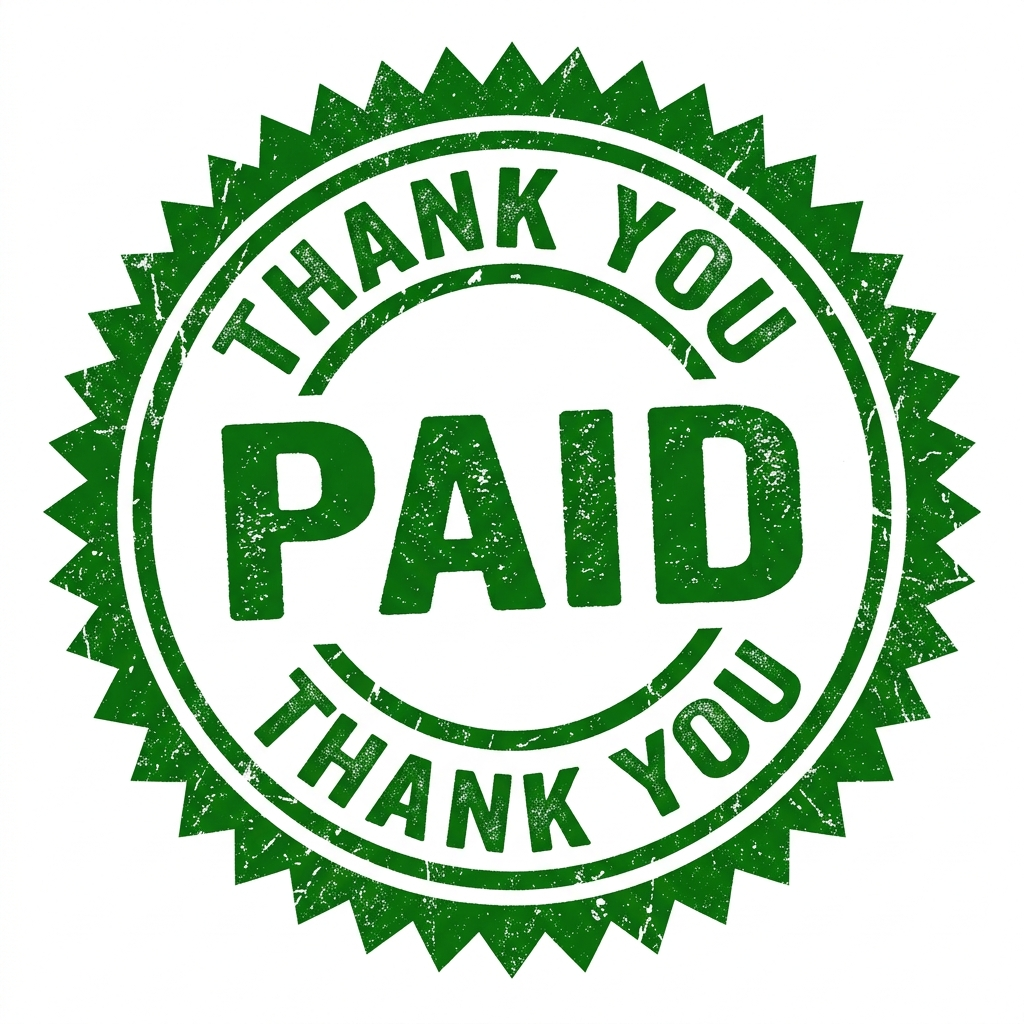
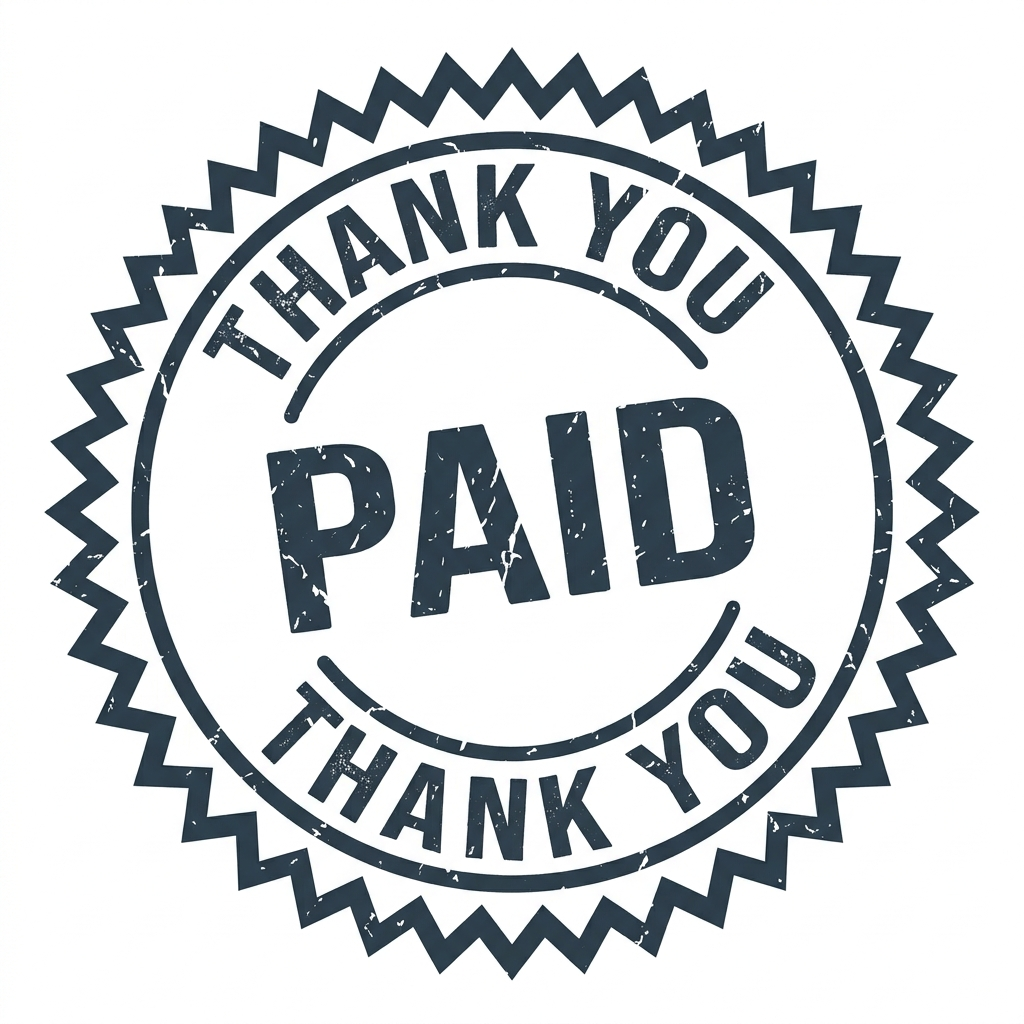
completed

diff --git a/lib/features/pdf/data/pdf_service_impl.dart b/lib/features/pdf/data/pdf_service_impl.dart
@@ -54,9 +54,22 @@ class PdfServiceImpl implements PdfService {
 
     pdf.addPage(
       pw.MultiPage(
-        pageFormat: PdfPageFormat.a4,
-        margin: const pw.EdgeInsets.all(32),
-        theme: pw.ThemeData.withFont(base: baseFont, bold: boldFont),
+        pageTheme: pw.PageTheme(
+          pageFormat: PdfPageFormat.a4,
+          margin: const pw.EdgeInsets.all(32),
+          theme: pw.ThemeData.withFont(base: baseFont, bold: boldFont),
+          buildBackground: (pw.Context context) {
+            if (invoice.paymentStatus == PaymentStatus.paid && paidSealImage != null) {
+              return pw.FullPage(
+                ignoreMargins: false,
+                child: pw.Center(
+                  child: _paidStamp(paidSealImage),
+                ),
+              );
+            }
+            return pw.SizedBox();
+          },
+        ),
         build: (pw.Context context) {
           return [
             // ─── 1. HEADER: Company Info + Logo ───
@@ -336,77 +349,66 @@ class PdfServiceImpl implements PdfService {
             pw.SizedBox(height: 20),
 
             // ─── 6. TERMS & SIGNATURE ───
-            pw.Stack(
-              alignment: pw.Alignment.bottomRight,
+            pw.Row(
+              crossAxisAlignment: pw.CrossAxisAlignment.end,
               children: [
-                pw.Row(
-                  crossAxisAlignment: pw.CrossAxisAlignment.end,
-                  children: [
-                    pw.Expanded(
-                      flex: 3,
-                      child: pw.Column(
-                        crossAxisAlignment: pw.CrossAxisAlignment.start,
-                        children: [
-                          pw.Text('Terms & Conditions', style: pw.TextStyle(font: boldFont, fontSize: 9, color: _mutedText)),
-                          pw.SizedBox(height: 3),
-                          pw.Text(
-                            AppConstants.termsAndConditions,
-                            style: pw.TextStyle(fontSize: 7.5, color: PdfColors.black),
-                          ),
-                        ],
+                pw.Expanded(
+                  flex: 3,
+                  child: pw.Column(
+                    crossAxisAlignment: pw.CrossAxisAlignment.start,
+                    children: [
+                      pw.Text('Terms & Conditions', style: pw.TextStyle(font: boldFont, fontSize: 9, color: _mutedText)),
+                      pw.SizedBox(height: 3),
+                      pw.Text(
+                        AppConstants.termsAndConditions,
+                        style: pw.TextStyle(fontSize: 7.5, color: PdfColors.black),
                       ),
-                    ),
-                    pw.SizedBox(width: 20),
-                    pw.Expanded(
-                      flex: 2,
-                      child: pw.Column(
-                        crossAxisAlignment: pw.CrossAxisAlignment.center,
-                        children: [
-                          pw.Text('For: ${companyInfo.name}', style: pw.TextStyle(font: baseFont, fontSize: 8, color: _mutedText)),
-                          pw.SizedBox(height: 6),
-                          if (invoice.showSignature && signatureImage != null) ...[
-                            pw.Image(signatureImage, width: 80, height: 40, fit: pw.BoxFit.contain),
-                            pw.SizedBox(height: 4),
-                            pw.Container(
-                              width: 120,
-                              decoration: pw.BoxDecoration(border: pw.Border(top: pw.BorderSide(color: _mutedText, width: 0.5))),
-                              padding: const pw.EdgeInsets.only(top: 4),
-                              child: pw.Text(
-                                'Authorized Signatory',
-                                textAlign: pw.TextAlign.center,
-                                style: pw.TextStyle(font: boldFont, fontSize: 8),
-                              ),
-                            ),
-                          ] else ...[
-                            pw.Container(
-                              padding: const pw.EdgeInsets.symmetric(horizontal: 8, vertical: 4),
-                              decoration: pw.BoxDecoration(
-                                border: pw.Border.all(color: PdfColors.black, width: 0.5),
-                                borderRadius: pw.BorderRadius.circular(4),
-                              ),
-                              child: pw.Text(
-                                '[Electronically Signed]',
-                                style: pw.TextStyle(font: baseFont, fontSize: 8, color: PdfColors.black, fontStyle: pw.FontStyle.italic),
-                              ),
-                            ),
-                            pw.SizedBox(height: 6),
-                            pw.Text(
-                              'Computer-generated invoice.\nNo physical signature required.',
-                              textAlign: pw.TextAlign.center,
-                              style: pw.TextStyle(font: baseFont, fontSize: 7, color: PdfColors.black),
-                            ),
-                          ],
-                        ],
-                      ),
-                    ),
-                  ],
-                ),
-                if (invoice.paymentStatus == PaymentStatus.paid)
-                  pw.Positioned(
-                    right: 0,
-                    bottom: 0,
-                    child: _paidStamp(paidSealImage),
+                    ],
                   ),
+                ),
+                pw.SizedBox(width: 20),
+                pw.Expanded(
+                  flex: 2,
+                  child: pw.Column(
+                    crossAxisAlignment: pw.CrossAxisAlignment.center,
+                    children: [
+                      pw.Text('For: ${companyInfo.name}', style: pw.TextStyle(font: baseFont, fontSize: 8, color: _mutedText)),
+                      pw.SizedBox(height: 6),
+                      if (invoice.showSignature && signatureImage != null) ...[
+                        pw.Image(signatureImage, width: 80, height: 40, fit: pw.BoxFit.contain),
+                        pw.SizedBox(height: 4),
+                        pw.Container(
+                          width: 120,
+                          decoration: pw.BoxDecoration(border: pw.Border(top: pw.BorderSide(color: _mutedText, width: 0.5))),
+                          padding: const pw.EdgeInsets.only(top: 4),
+                          child: pw.Text(
+                            'Authorized Signatory',
+                            textAlign: pw.TextAlign.center,
+                            style: pw.TextStyle(font: boldFont, fontSize: 8),
+                          ),
+                        ),
+                      ] else ...[
+                        pw.Container(
+                          padding: const pw.EdgeInsets.symmetric(horizontal: 8, vertical: 4),
+                          decoration: pw.BoxDecoration(
+                            border: pw.Border.all(color: PdfColors.black, width: 0.5),
+                            borderRadius: pw.BorderRadius.circular(4),
+                          ),
+                          child: pw.Text(
+                            '[Electronically Signed]',
+                            style: pw.TextStyle(font: baseFont, fontSize: 8, color: PdfColors.black, fontStyle: pw.FontStyle.italic),
+                          ),
+                        ),
+                        pw.SizedBox(height: 6),
+                        pw.Text(
+                          'Computer-generated invoice.\nNo physical signature required.',
+                          textAlign: pw.TextAlign.center,
+                          style: pw.TextStyle(font: baseFont, fontSize: 7, color: PdfColors.black),
+                        ),
+                      ],
+                    ],
+                  ),
+                ),
               ],
             ),
           ];
@@ -476,8 +478,8 @@ class PdfServiceImpl implements PdfService {
     return pw.Transform.rotate(
       angle: 0.15,
       child: pw.Opacity(
-        opacity: 0.45,
-        child: pw.Image(paidSealImage, width: 75, height: 75, fit: pw.BoxFit.contain),
+        opacity: 0.12,
+        child: pw.Image(paidSealImage, width: 220, height: 220, fit: pw.BoxFit.contain),
       ),
     );
   }